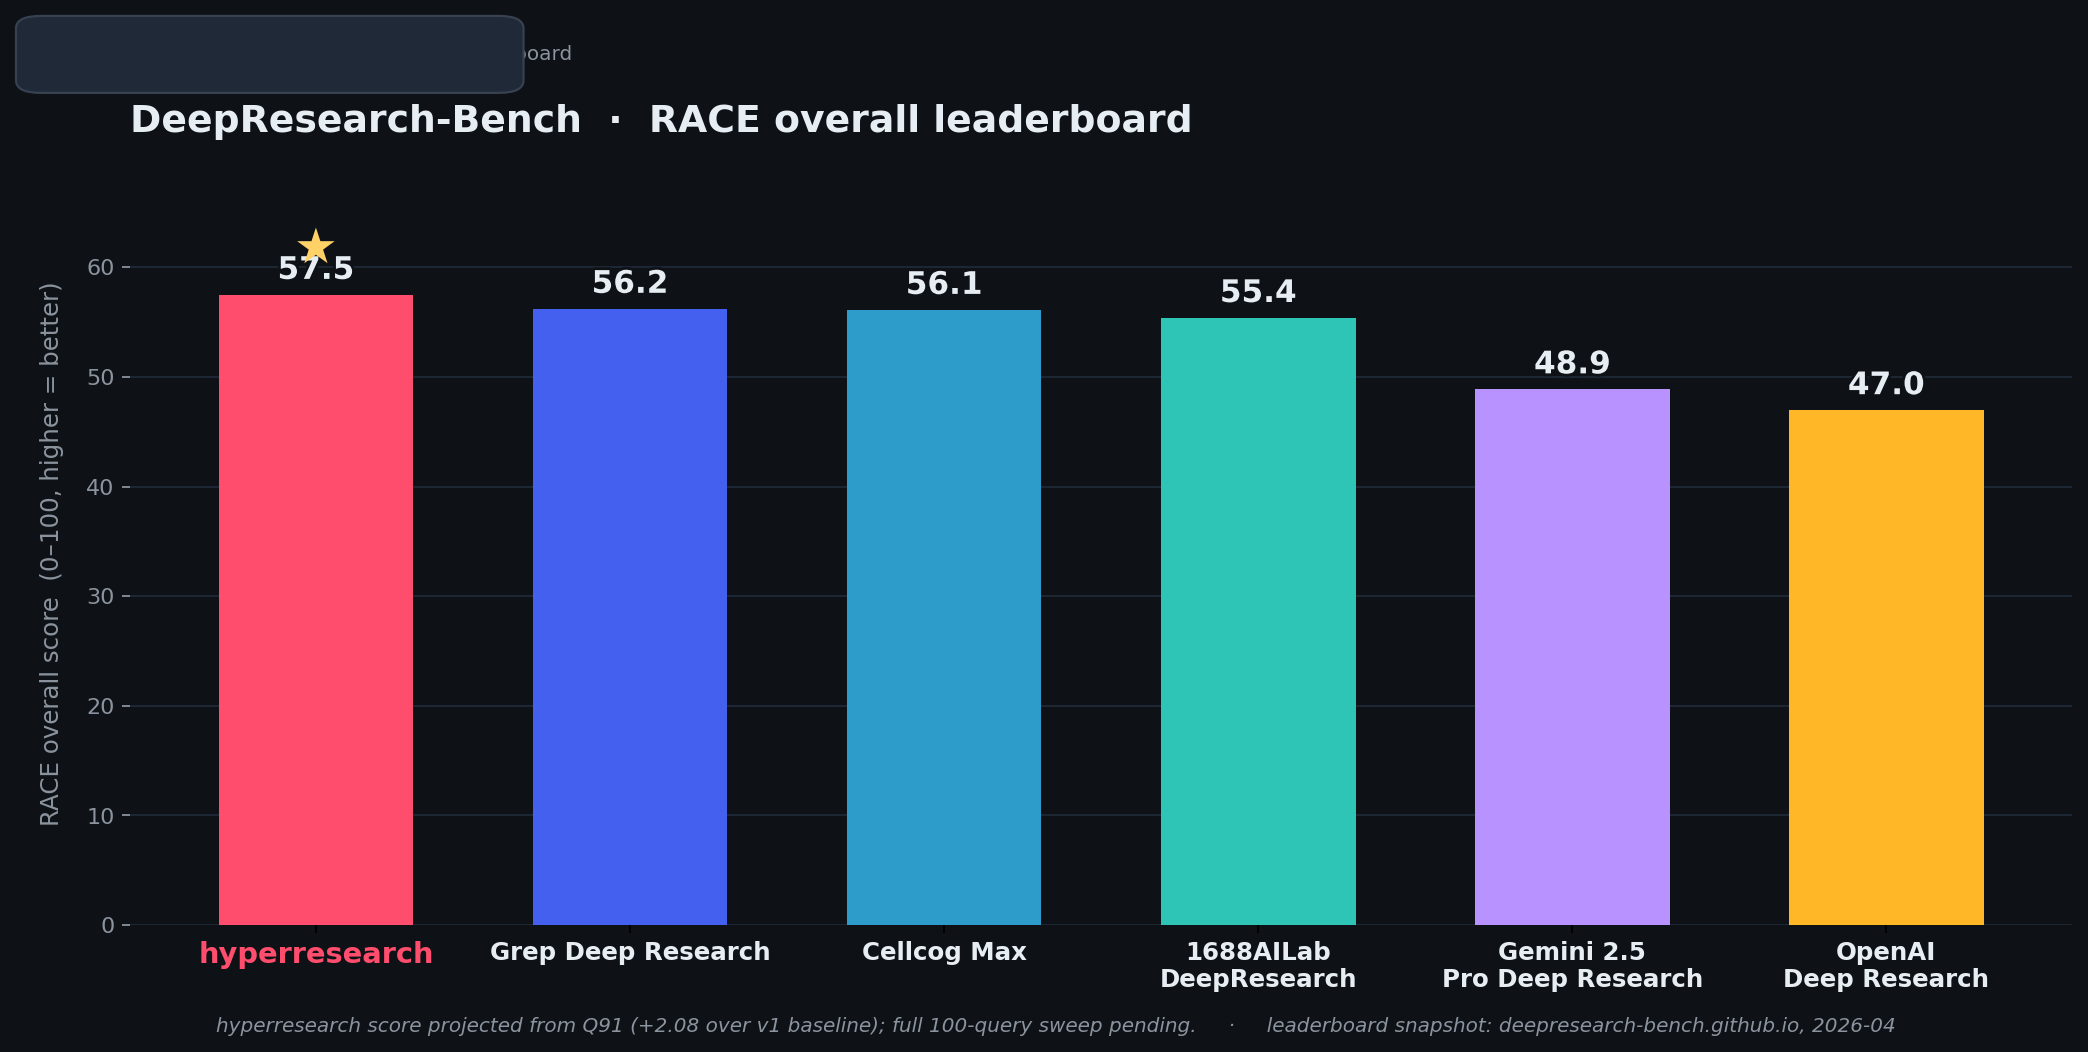
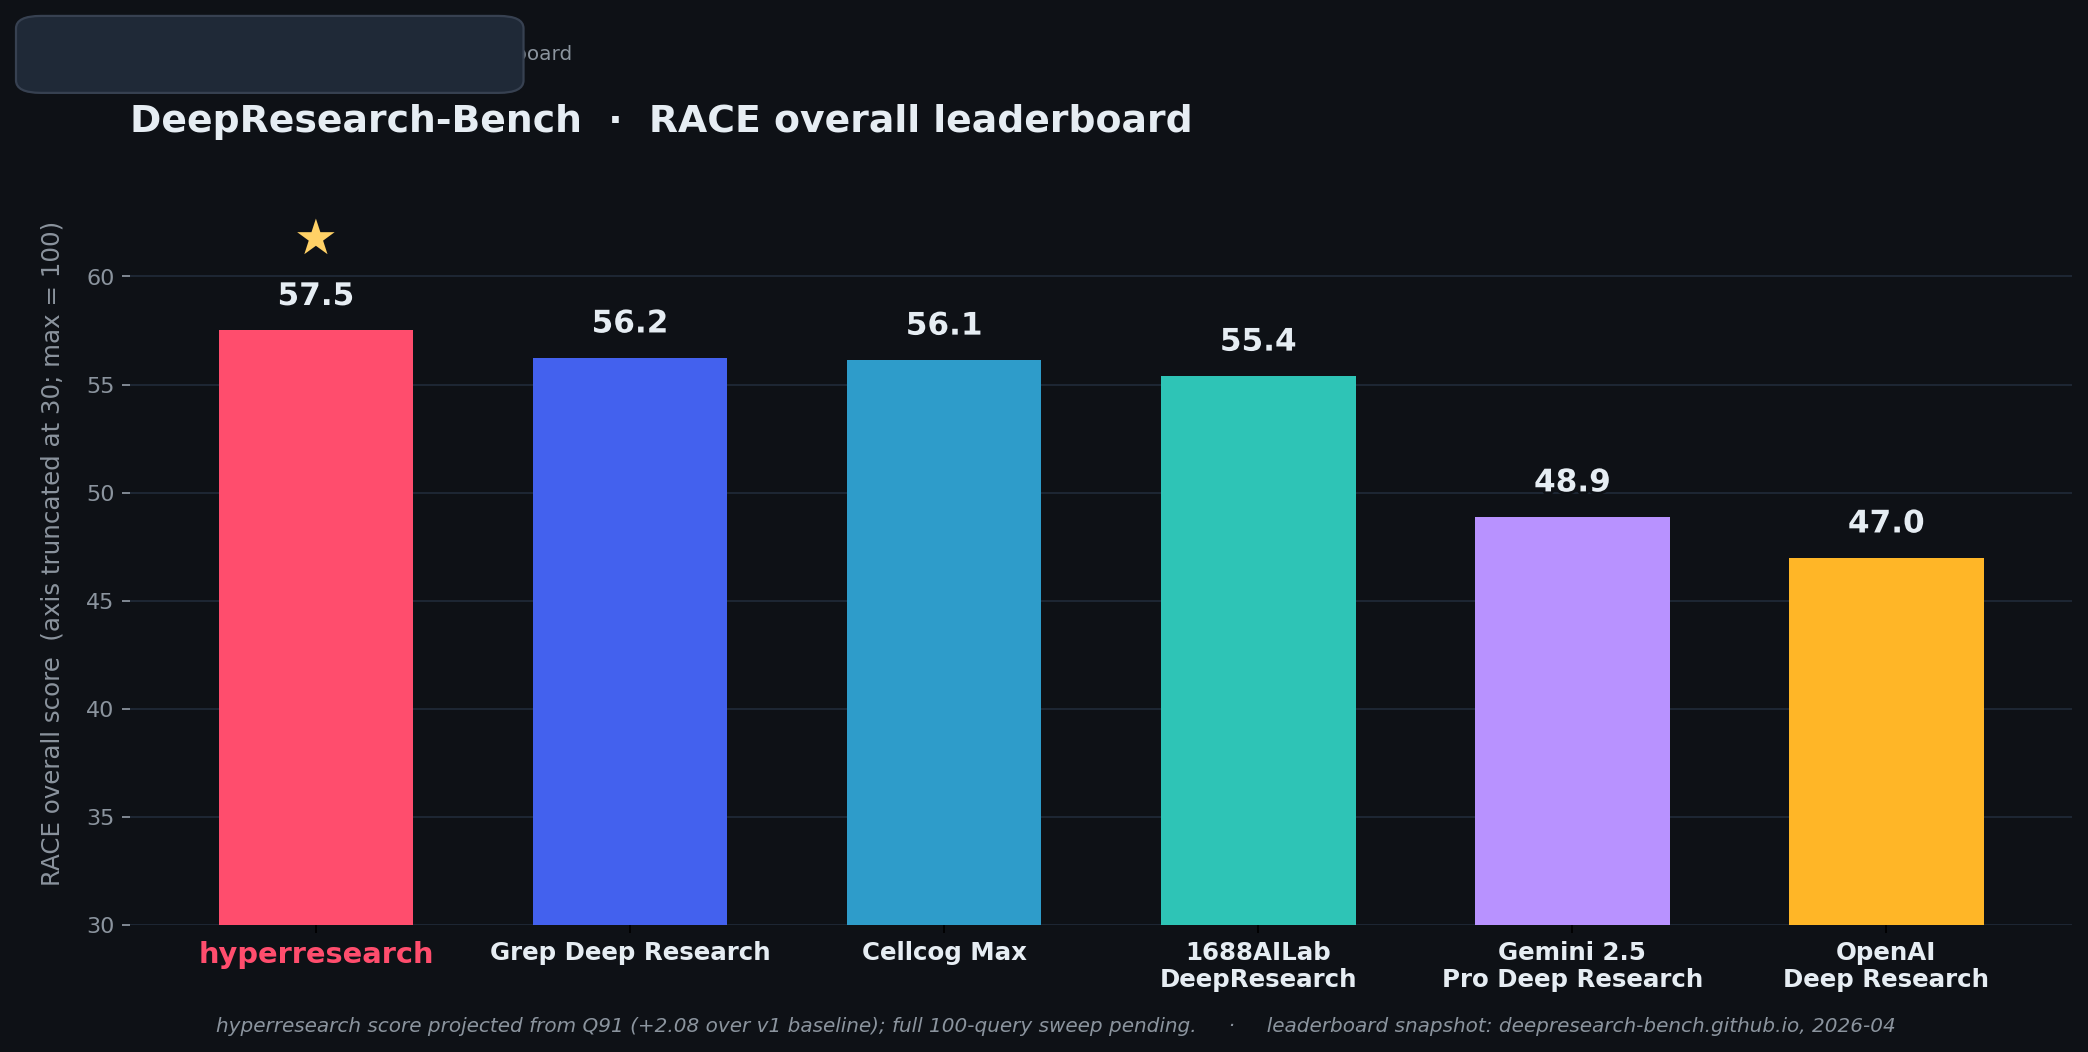
docs: benchmark chart — truncate y-axis at 30 for readability
All RACE scores live in a narrow 46-58 range; a 0-100 axis flattens
visible differentiation. Starting at 30 lets the 1-pt lead hyperresearch
holds over Grep and the ~7-pt gap vs Gemini/OpenAI both read cleanly
without looking like identical bars.

Y-axis label discloses the truncation explicitly
("RACE overall score (axis truncated at 30; max = 100)") so readers
aren't misled about scale.

diff --git a/assets/_generate_benchmark.py b/assets/_generate_benchmark.py
@@ -114,15 +114,17 @@ for i, tick in enumerate(ax.get_xticklabels()):
         tick.set_fontweight("bold")
         tick.set_fontsize(13)
 
-# Y-axis
+# Y-axis — truncated at 30 so differentiation in the 45-60 range reads
+# clearly. Scores in this regime are compressed; 0-100 full scale would
+# flatten everything into identical-looking bars.
 ax.set_ylabel(
-    "RACE overall score  (0–100, higher = better)",
+    "RACE overall score  (axis truncated at 30; max = 100)",
     color=dim,
     fontsize=11,
     labelpad=10,
 )
 ax.tick_params(axis="y", colors=dim, labelsize=10)
-ax.set_ylim(0, max(scores) * 1.18)  # headroom for star + labels
+ax.set_ylim(30, max(scores) * 1.12)  # headroom for star + labels
 
 # Gridlines
 ax.yaxis.grid(True, color=grid, linewidth=0.8, zorder=1)
